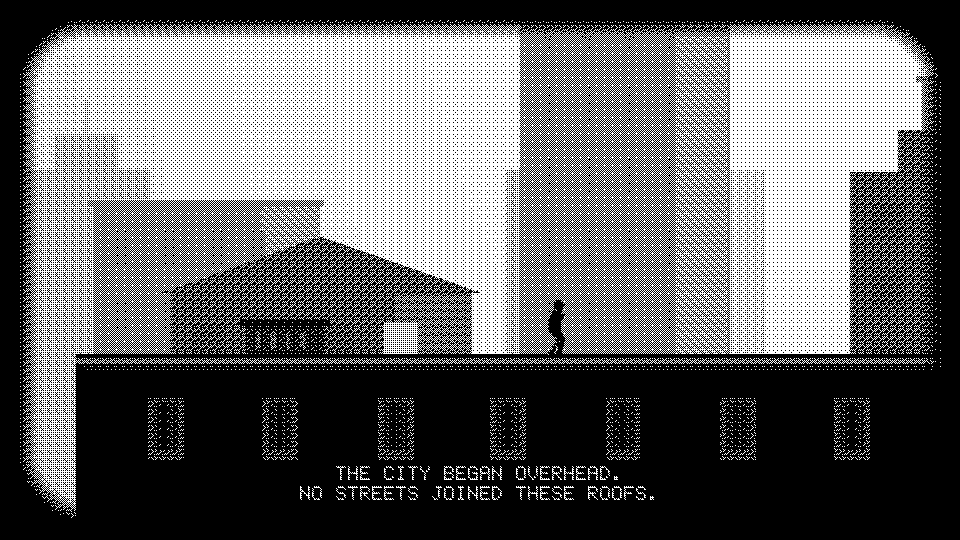
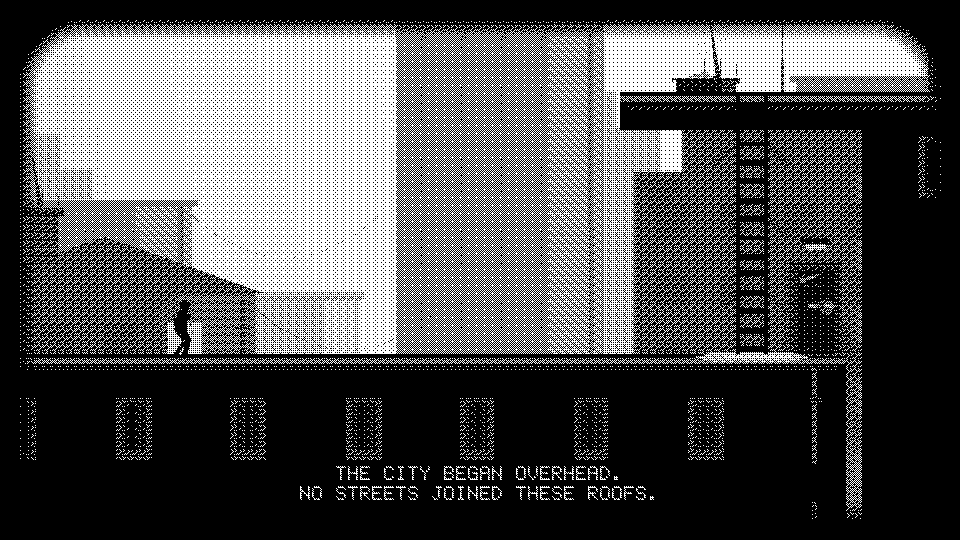
Frame the first city route with weathered roofs, cables and aerials

diff --git a/test/native_apps/hollow_trail_renderer_test.c b/test/native_apps/hollow_trail_renderer_test.c
@@ -86,9 +86,9 @@ static const unsigned golden[][2]={
 {2360543007,3475717195},
 {2678342540,1864369833},
 {2831815599,162065936},
-{3397393864,1768097400},
-{2732088604,839803533},
-{1584621681,644133032},
+{1214568740,2936241985},
+{636627196,3971659724},
+{2919314458,371499864},
 {4117894193,2324489790},
 {1863941504,1514272394},
 {2204911086,4228726518},

diff --git a/docs/HOLLOW_TRAIL_NOVELLA_ALIGNMENT.md b/docs/HOLLOW_TRAIL_NOVELLA_ALIGNMENT.md
@@ -47,7 +47,10 @@ sets 7–8. Towers and living gullies are world anchored beyond the forest gate;
 they enter through clipping rather than popping in at an actor threshold. The
 first city terrace gains standing water around the ladder's bottom rung, a rubbed
 bolt/thumb patch and competing charcoal arrows, plus chimney cage/nest and a
-shallow reflecting tank on the first roof.
+shallow reflecting tank on the first roof. The reveal opens toward that first
+ladder/door, with bent aerials, chimney cages, sagging cables fading into fog,
+coping courses, drain seams, split plaster and restrained soot/flashing. These
+are fixed world details; no new surfaces or collision shortcuts are implied.
 
 A third in-engine tableau runs only after actual gameplay solves and exits the
 forest gate into the city. It holds/pulls back through the existing roofscape,
@@ -124,8 +127,8 @@ Version: Hollow Trail 1.1.35 → 1.1.36, minimum firmware unchanged at 1.3.37.
 Published release-index was read before this bump and confirms 1.1.35.
 Host previews were inspected and corrected: initial latch arm targeted the wrong
 projected coordinates; final version targets the actual latch using the shared
-articulated pose. The forest/mill middle-view and first-city-view goldens change; the other
-28 complete renderer references, including all boat/dam references, stay exact.
+articulated pose. The forest/mill middle-view and three city-view goldens change; the other
+26 complete renderer references, including all boat/dam references, stay exact.
 
 Local targeted timeline, input, full-route and Xtensa app results plus aggregate
 and CI status are recorded in the PR. No hardware appearance/FPS claim; no merge,
